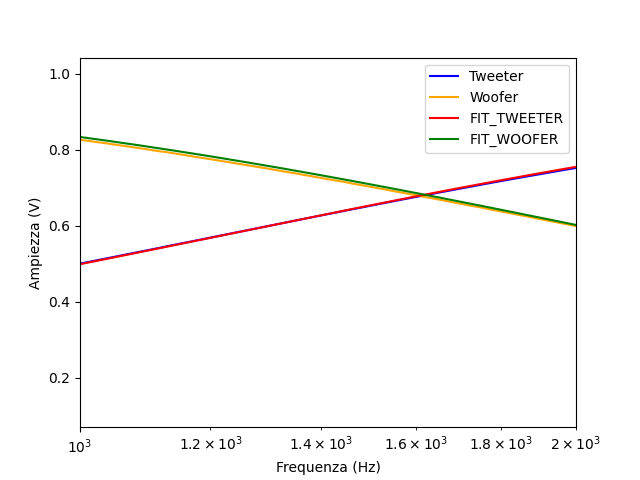
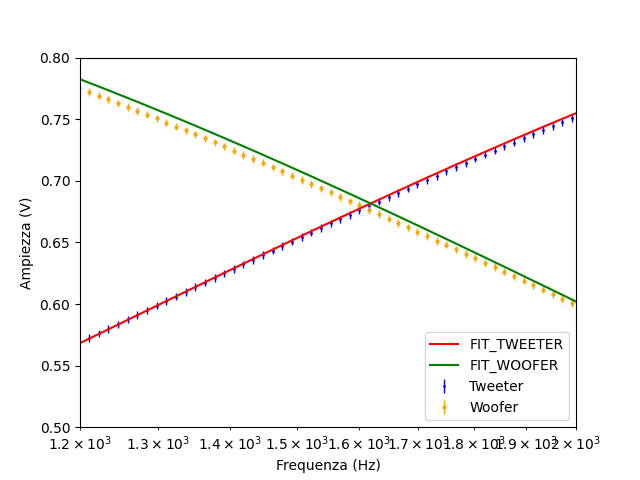
Added reduced range zoom

diff --git a/Sections/3-Analisi.tex b/Sections/3-Analisi.tex
@@ -154,9 +154,18 @@ Le incertezze sull'ampiezza sono state ottenute mediante fit sinusoidale alla fo
   (come descritto in sezione 2, non è costante). Risulta pertanto essere un'incertezza massima.
   
  %discussione del non venuto
- (la butto li). I
-  
+ \begin{figure}[H]
+    \centering
 
+      \centering
+      \includegraphics[width=.50\textwidth]{cross_reduced_range.png}
+      \caption{Fit funzioni guadagno. Zoom nei pressi della frequenza di crossover.}
+      \label{fig: amp_gain_fit_reduced}
+
+
+  \end{figure}
+  
+La figura \ref{fig: amp_gain_fit_reduced} mostra gli andamenti del fit e dei valori sperimentali nei pressi della frequenza di crossover. 
 
 \subsection{Analisi della fase}
 
